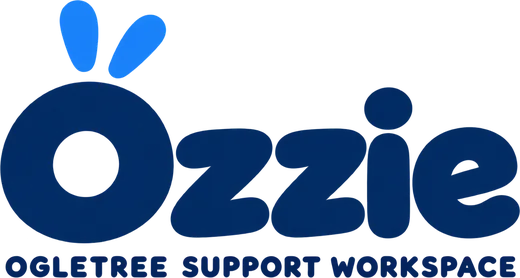
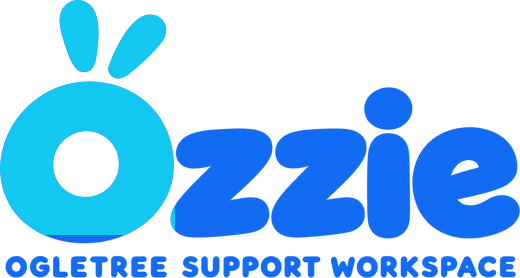
Finalize Ozzie Ogletree Support Workspace branding

diff --git a/src/ozzie-brand-polish.css b/src/ozzie-brand-polish.css
@@ -1,6 +1,6 @@
-/* Final Ozzie brand visibility pass.
-   Preserve the original light-blue owl accents, recolor the main wordmark
-   and subtitle to the approved more-visible blue, and keep the logo glow-free. */
+/* Final Ozzie brand presentation.
+   The shared production asset already contains the approved two-tone artwork
+   and transparency, so presentation CSS must not recolor or glow it. */
 
 .ozzie-logo-stage::before {
   content: none !important;
@@ -9,53 +9,4 @@
 .access-brand-logo,
 .sidebar-brand img {
   filter: none !important;
-}
-
-.ozzie-logo-stage-login,
-.sidebar-brand {
-  position: relative;
-  isolation: isolate;
-}
-
-/* Recolor only the lower/main logo artwork. The upper owl accents remain
-   untouched from the original asset. */
-.ozzie-logo-stage-login::after,
-.sidebar-brand::before {
-  content: "";
-  position: absolute;
-  z-index: 1;
-  pointer-events: none;
-  background: #0759c2;
-  -webkit-mask-image: url("/zoom-support-navigator/assets/ozzie-login.webp");
-  mask-image: url("/zoom-support-navigator/assets/ozzie-login.webp");
-  -webkit-mask-repeat: no-repeat;
-  mask-repeat: no-repeat;
-  -webkit-mask-position: center;
-  mask-position: center;
-  -webkit-mask-size: contain;
-  mask-size: contain;
-  clip-path: inset(29% 0 0 0);
-}
-
-.ozzie-logo-stage-login::after {
-  inset: 0;
-}
-
-.sidebar-brand::before {
-  top: .35rem;
-  right: .35rem;
-  bottom: .95rem;
-  left: .35rem;
-}
-
-.access-brand-logo,
-.sidebar-brand img {
-  position: relative;
-  z-index: 0;
-}
-
-@media (max-width: 640px) {
-  .ozzie-logo-stage-login::after {
-    clip-path: inset(29% 0 0 0);
-  }
 }

diff --git a/src/styles.css b/src/styles.css
@@ -3467,6 +3467,7 @@ button:focus-visible, input:focus-visible, select:focus-visible, textarea:focus-
   height: auto;
   margin: 0 auto 1.4rem;
   object-fit: contain;
+  filter: none;
 }
 
 .activation-card {
@@ -3536,6 +3537,7 @@ button:focus-visible, input:focus-visible, select:focus-visible, textarea:focus-
   width: clamp(10.5rem, 19vw, 15rem);
   max-height: 3.45rem;
   object-fit: contain;
+  filter: none;
   object-position: left center;
 }
 
@@ -3612,12 +3614,7 @@ button:focus-visible, input:focus-visible, select:focus-visible, textarea:focus-
 .access-brand-logo {
   width: min(100%, 25rem);
   margin: 0 auto;
-  filter:
-    brightness(1.38)
-    contrast(1.08)
-    saturate(1.06)
-    drop-shadow(0 .45rem .9rem rgba(0, 72, 150, .24))
-    drop-shadow(0 0 .22rem rgba(185, 222, 255, .20));
+  filter: none;
 }
 
 .app-header {
@@ -3642,12 +3639,7 @@ button:focus-visible, input:focus-visible, select:focus-visible, textarea:focus-
 .ozzie-header-brand img {
   width: clamp(14.5rem, 22vw, 18rem);
   max-height: 4.15rem;
-  filter:
-    brightness(1.46)
-    contrast(1.08)
-    saturate(1.08)
-    drop-shadow(0 .35rem .8rem rgba(0, 68, 145, .28))
-    drop-shadow(0 0 .2rem rgba(196, 228, 255, .22));
+  filter: none;
 }
 
 .app-header.header-scrolled {
@@ -3759,10 +3751,7 @@ button:focus-visible, input:focus-visible, select:focus-visible, textarea:focus-
   width: min(100%, 12.75rem);
   height: auto;
   object-fit: contain;
-  filter:
-    brightness(1.16)
-    contrast(1.08)
-    saturate(1.05);
+  filter: none;
 }
 
 .live-call-flow-approved {
